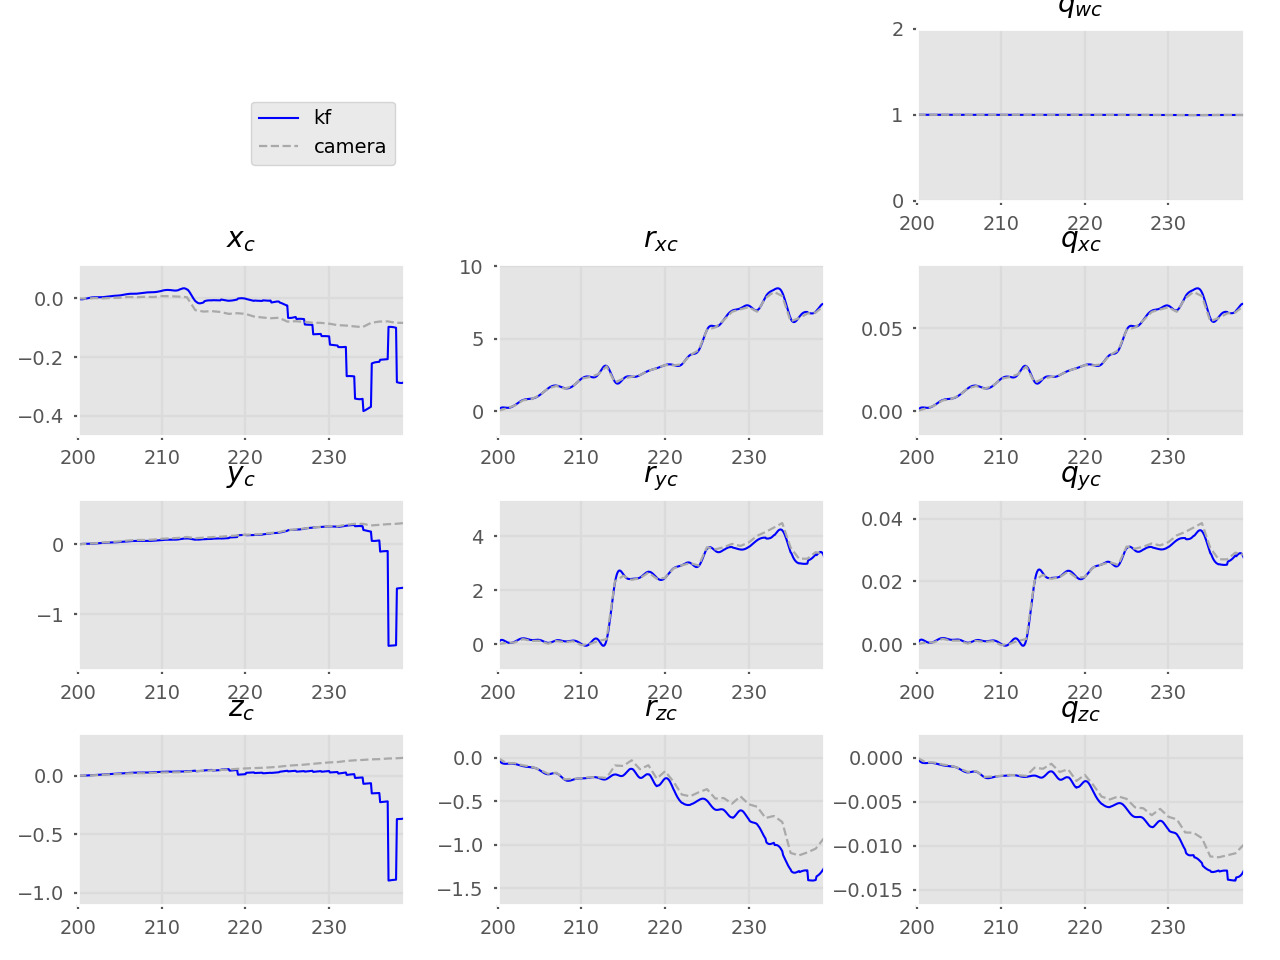
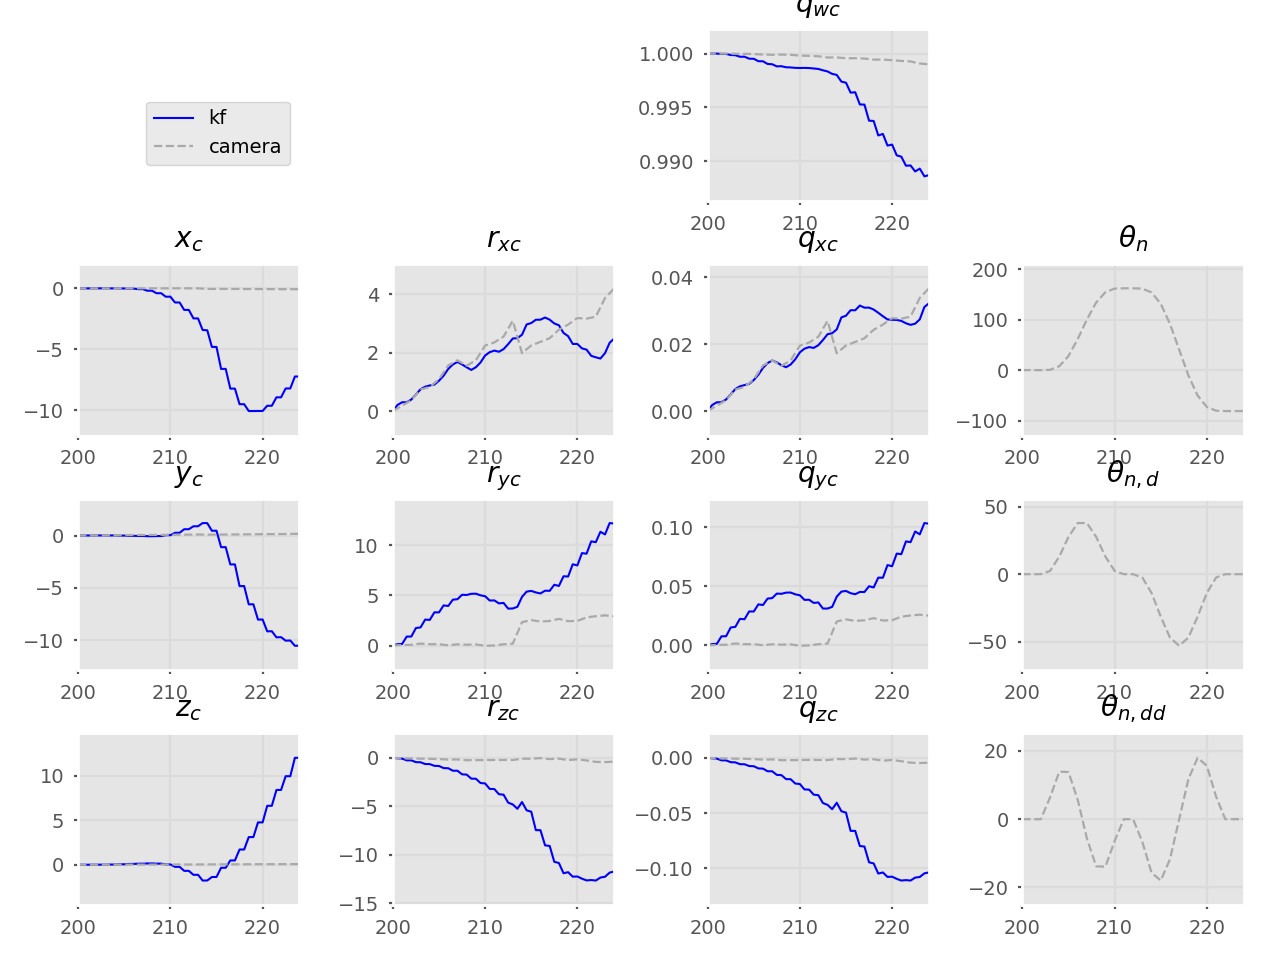
[temp] imgs

diff --git a/generate_data.py b/generate_data.py
@@ -6,7 +6,7 @@ import sympy as sp
 
 # data generation params
 max_vals = 25
-num_imu_between_frames = 10
+num_imu_between_frames = 2
 # imu_covariance = [0.01, 0.03, 0.01, 0.03, 0.005, 0.005]
 
 # initialise robot

diff --git a/readme.md b/readme.md
@@ -4,6 +4,9 @@ the calibration parameters in a camera-IMU sensor probe setup.
 
 [Program outline](https://www.evernote.com/l/AeQSiL2U6txCWbgNAi1G9mUtWune-gjHNlU/)
 
+![](img/kf_mono_upd_Rp1000.0_Rq0.05_imu.png)
+![](img/kf_mono_upd_Rp1000.0_Rq0.05_cam.png)
+
 ## Current results
 ```
 python3 main.py <prop/update> nonoise
